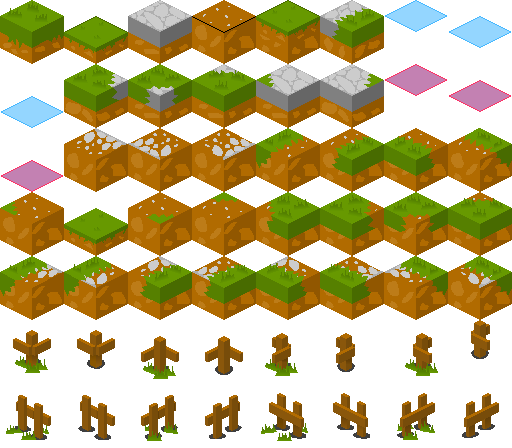
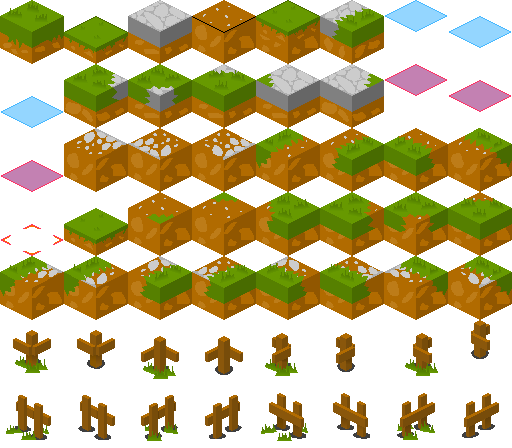
add very basic GUI for clicked unit, removed useless LOCs and resources

Changed region(s): [[0.0, 0.4375, 0.125, 0.5625]]

diff --git a/src/main.cpp b/src/main.cpp
@@ -25,7 +25,7 @@ using namespace std;
 SDL_Renderer *gRenderer = NULL;
 SDL_Window *gWindow = NULL;
 // Scene sprites
-SDL_Rect gSpriteClips[TILESET_TILES], cursorSprite, highlighterSprite, HighCursorSprite, LowCursorSprite;
+SDL_Rect gSpriteClips[TILESET_TILES], cursorSprite, highlighterSprite, HighCursorSprite, LowCursorSprite, selectorSprite;
 LTexture gSpriteSheetTexture;
 // Buttons
 LButton gButtons[TOTAL_BUTTONS];
@@ -33,19 +33,19 @@ LButton gButtons[TOTAL_BUTTONS];
 int main(int argc, char* args[]) {
   //Start up SDL and create window
   if (!init()) {
-    printf("Failed to initialize!\n"); CLI_PAUSE;
+    printf("Failed to initialize!\n"); CLI_PAUSE
     exit(1);
   }
 
   //Initialize SDL_ttf 
   if (TTF_Init() == -1) {
-    printf("SDL_ttf could not initialize! SDL_ttf Error: %s\n", TTF_GetError()); CLI_PAUSE;
+    printf("SDL_ttf could not initialize! SDL_ttf Error: %s\n", TTF_GetError()); CLI_PAUSE
     exit(2);
   }
 
   // Load sprite media
   if (!loadMedia(TILESET_PATH)) {
-    printf("Failed to load media!\n"); CLI_PAUSE;
+    printf("Failed to load media!\n"); CLI_PAUSE
     exit(3);
   }
 
@@ -53,12 +53,12 @@ int main(int argc, char* args[]) {
   SDL_Color currentColor = SDL_WHITE;
   LTextTexture label;
   if (!label.loadFormat(TTF_PATH_LAZY, 25)) {
-    printf("Failed to load text media!\n"); CLI_PAUSE;
+    printf("Failed to load text media!\n"); CLI_PAUSE
     exit(4);
   }
   LMultiLineTextTexture menuTextBox;
   if (!menuTextBox.loadFormat(TTF_PATH_LAZY, 20)) {
-    printf("Failed to load text media!\n"); CLI_PAUSE;
+    printf("Failed to load text media!\n"); CLI_PAUSE
     exit(5);
   }
   std::string menuText = R"(MENU:
@@ -81,16 +81,19 @@ unit animation
   const unsigned char* currentKeyStates;
 
   // Level map object
-  Map map("../resources/test_map_t.txt");
+  Map map("../resources/test_map.txt");
 
   // Unit variables
   Units animate("../resources/units/animate.unit.json");
-  animate.AddTimer(500, TIMER_ANIMATION);
+  //animate.AddTimer(500, TIMER_ANIMATION);
   Units moving("../resources/units/moving.unit.json");
-  moving.AddTimer(250, TIMER_MOTION);
+  //moving.AddTimer(250, TIMER_MOTION);
+  animate.initStats(); moving.initStats();
+  Units* selected_unit = nullptr;
+
 
   // Multipurpose Point variables
-  Point mouse_tile{}, last_mouse_tile{ -100, -100 }, mouse_point{};
+  Point mouse_tile{}, last_mouse_tile{ -100, -100 }, mouse_clicked_tile{ -100, -100 }, mouse_point{};
   Point camera{ 0, 0 };
   vector<Point> bestpath;
 
@@ -160,9 +163,16 @@ unit animation
       }
 
       // Get mouse position
-      if (e.type == SDL_MOUSEMOTION) {
+      if(e.type == SDL_MOUSEMOTION) {
         SDL_GetMouseState(&(mouse_point.x), &(mouse_point.y));
-        map.mouse2tile_piuficodiquellodibio(mouse_point - camera);
+        //map.mouse2tile_piuficodiquellodibio(mouse_point - camera);
+      }
+      if(e.type == SDL_MOUSEBUTTONUP) {
+        SDL_GetMouseState(&(mouse_point.x), &(mouse_point.y));
+        mouse_clicked_tile = map.mouse2basetile(mouse_point + camera);
+        selected_unit = nullptr;
+        if(animate.CurrentTile == mouse_clicked_tile) selected_unit = &animate;
+        else if(moving.CurrentTile == mouse_clicked_tile) selected_unit = &moving;
       }
 
       // user callback points here
@@ -216,7 +226,7 @@ unit animation
 #endif
 
     // Render cursor
-    map.renderCursor(camera, mouse_point, &LowCursorSprite);
+    map.renderCursor(camera, mouse_point, &selectorSprite);
 
 #ifdef SHOW_TEXT
     // Single Line
@@ -229,6 +239,14 @@ unit animation
       menuTextBox.render(Point{ 5 * SCREEN_WIDTH / 7, 2 * SCREEN_HEIGHT / 8 });
     }
 #endif
+
+#ifdef SHOW_GUI
+		if(selected_unit) {
+			selected_unit->updateStatusBar();
+			selected_unit->gui.render();
+		}
+
+#endif // SHOW_GUI
 
     //Update screen
     SDL_RenderPresent(gRenderer);

diff --git a/src/units.cpp b/src/units.cpp
@@ -1,13 +1,15 @@
-#pragma once
 #define _CRT_SECURE_NO_WARNINGS
 
 #include "jsoncons/json.hpp"
+
+#include <string>
 
 #include "units.h"
 #include "animation.h"
 #include "defines.h"
 
 extern SDL_Rect gSpriteClips[];
+extern SDL_Window *gWindow;
 
 Units::Units(const Point &p) {
   CurrentTile = p;
@@ -22,7 +24,7 @@ Units::Units(std::string json_path) {
     junit = jsoncons::json::parse_file(json_path);
   }
   catch (std::exception &e) {
-    std::cout << "ERROR: " << e.what() << std::endl; CLI_PAUSE;
+    std::cout << "ERROR: " << e.what() << std::endl; CLI_PAUSE
     exit(21);
   }
 
@@ -90,4 +92,23 @@ Uint32 units_cb(Uint32 interval, void* param) {
   return interval;
 }
 
+void Units::initStats() {
+  max_hp = 100; max_mp = 50;
+  hp = max_hp; mp = max_mp;
+}
 
+void Units::updateStatusBar() {
+	int winH, winW; SDL_GetWindowSize(gWindow, &winW, &winH);
+	gui.hpBar_outline = { 20, winH - 100, 200, 20 };
+	gui.mpBar_outline = { 20, winH -  50, 200, 20 };
+
+	int hpsize = double(hp) / max_hp * 200. + 0.5;
+	int mpsize = double(mp) / max_mp * 200. + 0.5;
+	gui.hpBar = { 20, winH - 100, hpsize, 20 };
+	gui.mpBar = { 20, winH - 50, mpsize, 20 };
+
+	std::string hplabel = std::to_string(hp) + "/" + std::to_string(max_hp);
+	std::string mplabel = std::to_string(mp) + "/" + std::to_string(max_mp);
+	gui.hp_label.setText(hplabel);
+	gui.mp_label.setText(mplabel);
+}

diff --git a/src/texture.cpp b/src/texture.cpp
@@ -1,10 +1,9 @@
-#pragma once
 #include "texture.h"
 #include <SDL_image.h>
 
 extern SDL_Renderer *gRenderer;
 extern SDL_Window *gWindow;
-extern SDL_Rect gSpriteClips[], cursorSprite, highlighterSprite, HighCursorSprite, LowCursorSprite;
+extern SDL_Rect gSpriteClips[], cursorSprite, highlighterSprite, HighCursorSprite, LowCursorSprite, selectorSprite;
 extern LTexture gSpriteSheetTexture;
 
 LTexture::LTexture(){
@@ -146,8 +145,9 @@ bool loadMedia(std::string path) {
     cursorSprite = gSpriteClips[TILESET_CURSOR_TILE_INDEX];
     HighCursorSprite = gSpriteClips[TILESET_CURSOR_TILE_INDEX-1];
     LowCursorSprite = gSpriteClips[TILESET_CURSOR_TILE_INDEX];
-		highlighterSprite = gSpriteClips[TILESET_HIGHLIGHTER_TILE_INDEX];
-	}
+    highlighterSprite = gSpriteClips[TILESET_HIGHLIGHTER_TILE_INDEX];
+    selectorSprite = gSpriteClips[TILESET_SELECTOR_TILE_INDEX];
+  }
 
   return success;
 }

diff --git a/src/gui.cpp b/src/gui.cpp
@@ -1,0 +1,28 @@
+#include "gui.h"
+#include "defines.h"
+
+extern SDL_Window *gWindow;
+extern SDL_Renderer *gRenderer;
+
+void BattleStatus::render() {
+	SDL_SetRenderDrawColor(gRenderer, 0xFF, 0x00, 0x00, 0xFF);
+	SDL_RenderFillRect(gRenderer, &hpBar);
+	SDL_SetRenderDrawColor(gRenderer, 0x00, 0x00, 0xFF, 0xFF);
+	SDL_RenderFillRect(gRenderer, &mpBar);
+
+	SDL_SetRenderDrawColor(gRenderer, 0xFF, 0xFF, 0xFF, 0xFF);
+	SDL_RenderDrawRect(gRenderer, &hpBar_outline);
+	SDL_RenderDrawRect(gRenderer, &mpBar_outline);
+
+	int winH, winW; SDL_GetWindowSize(gWindow, &winW, &winH);
+
+	hp_label.render({ 20, winH - 120 });
+	mp_label.render({ 20, winH -  70 });
+}
+
+BattleStatus::BattleStatus() {
+	if(!hp_label.loadFormat(TTF_PATH_LAZY, 15) || !mp_label.loadFormat(TTF_PATH_LAZY, 15)) {
+		printf("Failed to load text media!\n"); CLI_PAUSE
+		exit(4);
+	}
+}

diff --git a/src/units.h b/src/units.h
@@ -8,6 +8,7 @@
 // GOTYAY include
 #include "geometry.h"
 #include "battlemap.h"
+#include "gui.h"
 
 #define TIMER_ANIMATION    'a'
 #define TIMER_MOTION       'm'
@@ -26,6 +27,15 @@ public:
   char TimerType;
   SDL_TimerID UnitsTimer;
 
+  // stats
+  unsigned short max_hp, max_mp;
+
+  // stats in battle
+  unsigned short hp, mp;
+
+	// gui
+	BattleStatus gui;
+
   // Constructor
   Units() {};
   Units(const Point &p);
@@ -36,6 +46,9 @@ public:
   void UpdateSprite();
   void UpdateTile();
   void render(Map &map, const Point &cam);
+
+  void initStats();
+	void updateStatusBar();
 };
 
 // Timer global callback

diff --git a/src/geometry.h b/src/geometry.h
@@ -18,7 +18,7 @@ struct Point {
   bool operator==(const Point& b) const;
   bool operator!=(const Point& b) const;
   Point& operator+=(const Point& b);
-  Point& Point::operator++();
+  Point& operator++();
   friend Point operator+(Point th, const Point& b);
   friend Point operator-(Point th, const Point& b);
   Point& operator-=(const Point& b);

diff --git a/src/defines.h b/src/defines.h
@@ -1,6 +1,7 @@
 #pragma once
 // MSVC Debug Helper
 #ifdef _MSC_VER
+#include <iostream>
 #define CLI_PAUSE           std::cout << "\nENTER to quit..."; std::cin.get();
 #endif
 
@@ -9,4 +10,5 @@
 //#define SHOW_PATH
 #define SHOW_TEXT
 //#define SHOW_BUTTONS
-//#define SHOW_UNITS
+#define SHOW_UNITS
+#define SHOW_GUI

diff --git a/src/gui.h b/src/gui.h
@@ -1,0 +1,15 @@
+#pragma once
+
+//#include "texture.h"
+//#include "units.h"
+#include <SDL.h>
+#include "textbox.h"
+
+struct BattleStatus {
+	SDL_Rect hpBar_outline, mpBar_outline, hpBar, mpBar;
+	LTextTexture hp_label, mp_label;
+
+	BattleStatus();
+
+	void render();
+};

diff --git a/src/texture.h b/src/texture.h
@@ -29,6 +29,7 @@
 #define TILESET_UNIT_TILE_INDEX          47
 #define TILESET_CURSOR_TILE_INDEX        8
 #define TILESET_HIGHLIGHTER_TILE_INDEX   16
+#define TILESET_SELECTOR_TILE_INDEX      24
 #endif
 
 #define UNIT_SPRITE_NUM                  4

diff --git a/src/battlemap.cpp b/src/battlemap.cpp
@@ -1,4 +1,3 @@
-#pragma once
 #include <string>
 #include <sstream>
 #include <fstream>

diff --git a/src/buttons.cpp b/src/buttons.cpp
@@ -1,4 +1,3 @@
-#pragma once
 #include "texture.h"
 #include "buttons.h"
 

diff --git a/src/geometry.cpp b/src/geometry.cpp
@@ -1,4 +1,3 @@
-#pragma once
 #include <ostream>
 #include "geometry.h"
 
